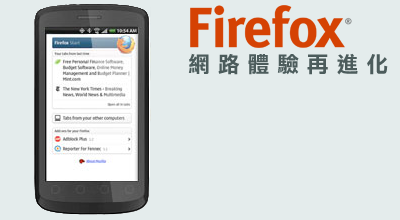
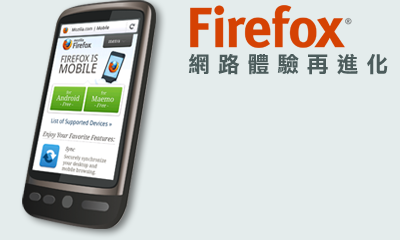
Update news for Firefox 5. update mobile page image and links to moztw.org/m. add firefox mobile to download box on front-page
git-svn-id: http://svn.openfoundry.org/moztw@1240 9cc691a1-34e3-0310-a474-e8860ed5959b

Changed region(s): [[0.03, 0.0, 0.42, 0.9818], [0.45, 0.0, 0.99, 0.3545], [0.54, 0.0, 0.57, 0.0273]]

diff --git a/inc/news.html b/inc/news.html
@@ -1,8 +1,9 @@
 <ul class="news">
+<li><div class="date"> 6 月 24</div>
+  <a href="/firefox/releases/">Firefox 5</a>、<a href="/mobile/">Firefox Mobile 5</a> 極速上場<br>
+  <a href="/m/">MozTW 手機下載頁面</a> 更新</li>
 <li><div class="date"> 4 月 28</div>
-  <a href="/firefox/releases/4.0.1/">Firefox 4.0.1</a>、<a href="/firefox/releases/3.6.17/">Firefox 3.6.17</a> 及 <a href="/firefox/releases/3.5.19/">Firefox 3.5.19</a> 安全更新</li>
+  <a href="/firefox/releases/4.0.1/">Firefox 4.0.1</a>、<a href="/firefox/releases/3.6.17/">Firefox 3.6.17</a> 及 <a href="/firefox/releases/3.5.19/">Firefox 3.5.19</a> 安全更新<br>
   <a href="/firefox/releases/3.6.14/">Firefox 3.6.14</a> 及 <a href="/firefox/releases/3.5.17/">3.5.17</a> 安全更新</li>
 <li><div class="date"> 3 月 23</div>
   <a href="/firefox/">Firefox 4.0</a> 隆重登場</li>
-<li><div class="date"> 3 月 5</div>
-  <a href="/firefox/releases/3.6.15/">Firefox 3.6.15</a> 更新</li>

diff --git a/inc/dlff.html b/inc/dlff.html
@@ -22,5 +22,6 @@
 <li><a href="/firefox/download/latest-win.html" id="download-link-win" title="" onClick="initDownloadInIE();urchinTracker('/download_trace/fx50win');">Windows</a>
 <li><a href="/firefox/download/latest-linux.html" id="download-link-linux" title="" onClick="urchinTracker('/download_trace/fx50linux');">Linux</a>
 <li><a href="/firefox/download/latest-osx.html" id="download-link-mac" title="" onClick="urchinTracker('/download_trace/fx50mac');">Mac OS X</a>
+<li><a href="/mobile" id="download-link-mobile" title="" onClick="urchinTracker('/download_trace/fx50mobile');">Firefox 手機版</a>
 <li><a href="http://www.mozilla.com/firefox/all.html" onClick="urchinTracker('/outgoing/fx50download');">其它語言與平台</a> 
 </ul>

diff --git a/inc/dlfn.html b/inc/dlfn.html
@@ -6,5 +6,5 @@
 </script><ul>
 <li><a href="https://market.android.com/details?id=org.mozilla.firefox" id="download-link-android" title="" onClick="urchinTracker('/download_trace/fx50android');">Android</a>
 <li><a href="https://download.mozilla.org/?product=firefox-mobile-5.0&os=maemo&lang=multi" id="download-link-maemo" title="" onClick="urchinTracker('/download_trace/fx50maemo');">Maemo</a>
-<p>或使用您的手機開啟 <a href="//Firefox.com/m">Firefox.com/m</a> 以進行下載。</p>
+<p>或使用您的手機開啟 <a href="http://moztw.org/m">moztw.org/m</a> 以進行下載。</p>
 </ul>
